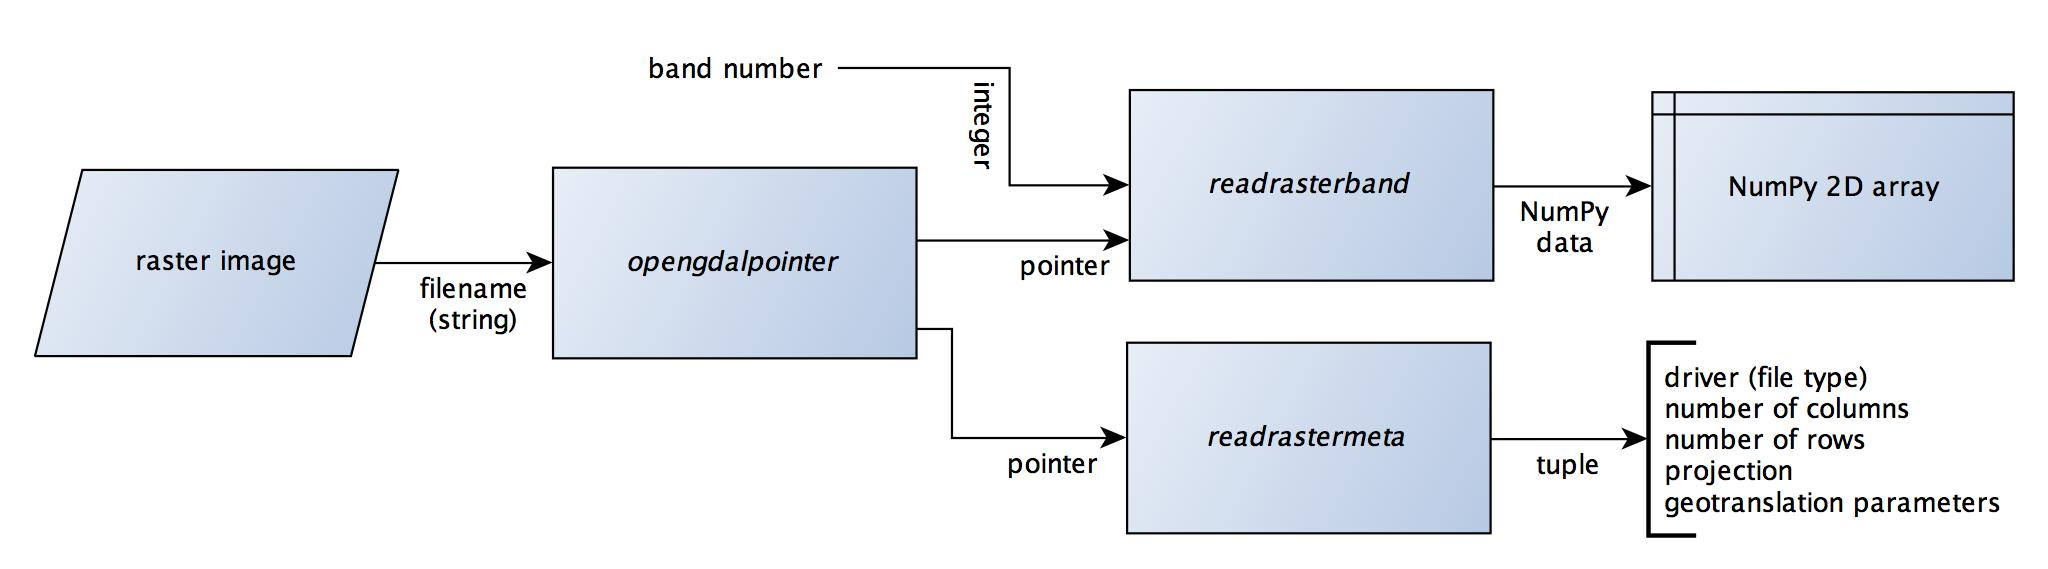
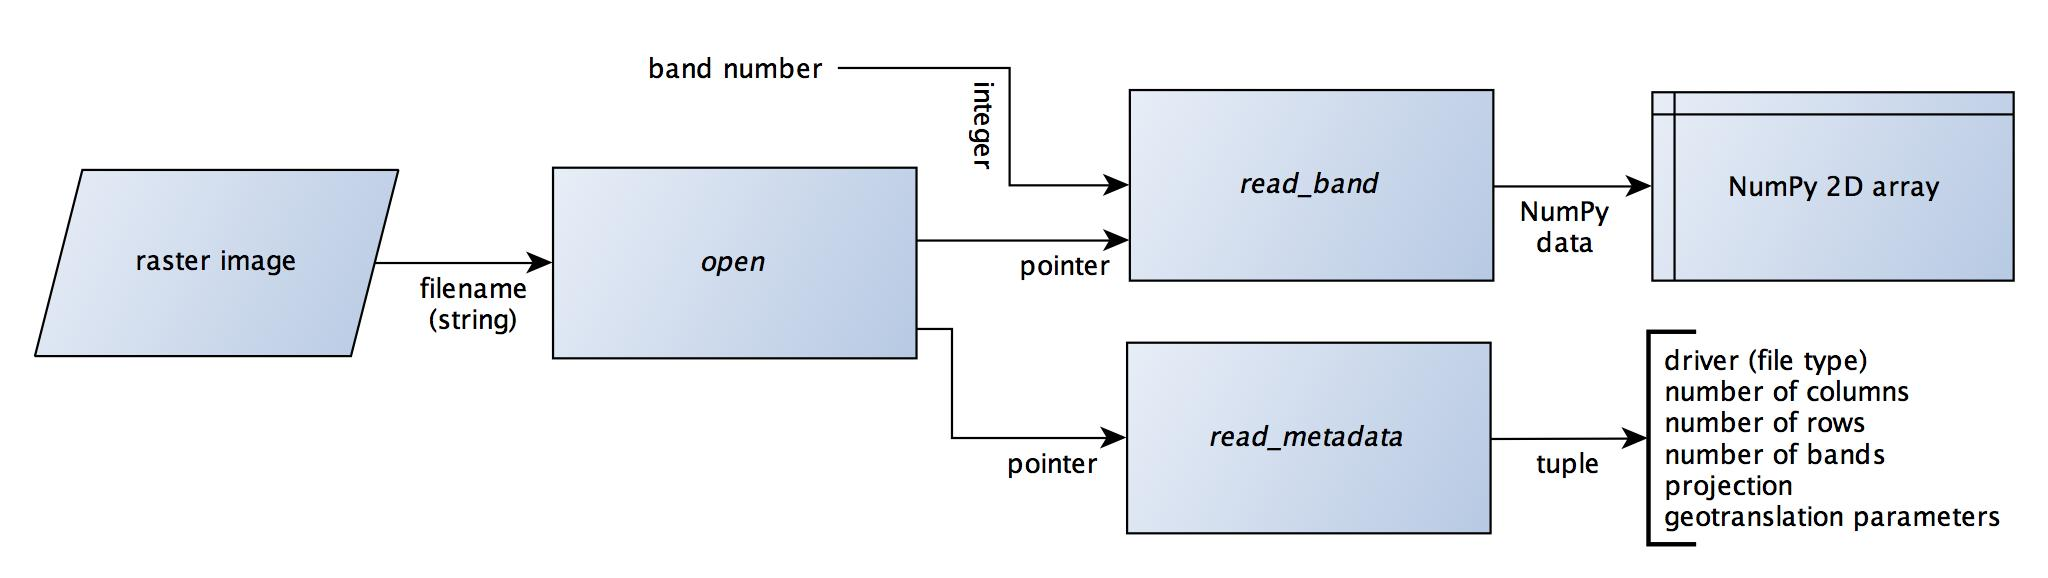
completed first draft of readme

diff --git a/scripts/matplotlib_rasterio_historgram_snippet.py b/scripts/matplotlib_rasterio_historgram_snippet.py
@@ -3,25 +3,24 @@
 import sys, os, string, rasterIO
 import numpy.ma as ma
 import matplotlib.pyplot as plt
- 
-# Create a histogram function
+
+# histogram function
 def rasterHistogram(raster_matrix):
     '''Accepts matrix and generates histogram'''
-     
-    # Line above is function docstring
+
     # Flatten 2d-matrix
     flat_raster = ma.compressed(raster_matrix)
-     
+
     # Setup the plot (see matplotlib.sourceforge.net)
     fig = plt.figure(figsize=(8,11))
     ax = fig.add_subplot(1,1,1)
-     
+
     # Plot histogram
     ax.hist(flat_raster, 10, normed=0, histtype='bar',
             align=mid)
     # Show the plot on screen
     plt.show()
-     
+
 # Open a raster using rasterIO
 #...
 # Pass matrix representation of raster to function

diff --git a/pyraster.py b/pyraster.py
@@ -69,7 +69,7 @@ class RasterIO:
         if dataset is not None:
             return dataset
         else:
-            raise IOError
+            raise IOError('Could not open file')
 
     def read_metadata(self, dataset):
         """Accepts GDAL dataset, returns metadata dict
@@ -261,7 +261,7 @@ class RasterIO:
                 else:
                     return int(srs.GetAuthorityCode("GEOGCS"))
         else:
-            raise TypeError
+            raise ValueError('WKT value must not be None')
 
     def band_to_txt(self, band, outfile):
         """Accepts numpy array writes to specified text file on disk."""

diff --git a/README.md b/README.md
@@ -11,7 +11,7 @@ PyRaster provides two elements:
 
   The aim of the module is to provide a high-level API for Python software to process large suites of geospatial rasters, with a particular focus on satellite imagery.
 
-  The RasterIO class uses the Geospatial Data Abstraction Library ([GDAL](http://gdal.org)) to read and write images and their geospatial metadata to and from NumPy arrays.
+  The RasterIO class uses the Geospatial Data Abstraction Library (GDAL)<sup>[1](#1)</sup> to read and write images and their geospatial metadata to and from NumPy arrays.
 
 2. Scripts
 
@@ -19,16 +19,16 @@ PyRaster provides two elements:
 
 ###References
 This software was developed as part of my PhD thesis to batch process large time series of Earth observation data.
-* [PhD Thesis](http://hdl.handle.net/10443/1856) - Holderness, T. 2013
-* [PyRaster presentation](https://tomholderness.files.wordpress.com/2012/12/holderness_asu_pyraster_pres_handout.pdf) to Mars Space Flight Facility in 2010
-* [Raster Processing Suite](http://talltom.github.io/Raster-Processing-Suite/) QGIS plugin.
+* Holderness, T. (2013) <i>Quantifying the spatio-temporal temperature dynamics of Greater London using thermal Earth observation.</i> <sup>[2](#2)</sup>
+* PyRaster presentation to Mars Space Flight Facility in 2010. <sup>[3](#3)</sup>
+* Raster Processing Suite QGIS plugin. <sup>[4](#4)</sup>
 
 ###Documentation
 * RasterIO API documentation in HTML format can be found in the `doc` folder
 * Instructions on using the software are provided below in this `README.md` file
 
 ###Supported Formats
-* Input: Any [GDAL supported format](http://gdal.org/formats_list.html)
+* Input: Any GDAL supported format <sup>[5](#5)</sup>
 * Output: Default is GeoTiffs created with embedded binary header files containing geospatial information
 * Default data-type is 32-bit float
 * RasterIO handles mapping of GDAL (C) data-types to Python
@@ -90,10 +90,10 @@ print type(b1)
 ```
 
 ![Figure 1 - loading raster data](https://raw.githubusercontent.com/talltom/PyRaster/dev/doc/diagrams/rasterIO_processing_flowline_read.jpg)
-Figure 1. Loading Raster Data into a NumPy array using the PyRaster RasterIO module ([Holderness, T. 2013](http://hdl.handle.net/10443/1856)).
+Figure 1. Loading Raster Data into a NumPy array using the PyRaster RasterIO module (Adapted from Holderness, T. 2013 <sup>[2](#2)</sup>).
 
 ####1.4 Metadata Handling
-The `read_metadata()` function complements `read_band()`,  to read the geospatial raster meta-data from a raster file. The `read_metadata()` function accepts a GDAL raster dataset (i.e. from `open_raster`) and returns a dictionary containing the GDAL driver, number of rows, number of columns, number of bands, projection info (well known text), and geotranslation metadata.
+The `read_metadata()` method complements `read_band()`,  to read the geospatial raster meta-data from a raster file. The `read_metadata()` function accepts a GDAL raster dataset (i.e. from `open_raster`) and returns a dictionary containing the GDAL driver, number of rows, number of columns, number of bands, projection info (well known text), and geotranslation metadata.
 
 Using `read_metadata()` with `read_band()` means that when a raster is loaded into a NumPy array the geospatial information can be retained through the Python processing flow-line, and written with output data if required.
 
@@ -106,25 +106,47 @@ GTIFF
 ```
 
 ####1.5 Masked Arrays & No Data Values
+PyRaster uses NumPy masked arrays <sup>[6](#6)</sup> to handle no data values in raster images. When masking is in place, masked values are not included in array calculations.
 
-PyRaster uses [NumPy masked arrays](http://docs.scipy.org/doc/numpy/reference/maskedarray.html) to handle no data values in raster images. When masking is in place, masked values are not included in array calculations.
-
-No Data Values (`NoDataValue`) are derived from individual band metadata using the `band.GetNoDataValue()` [GDAL function](http://www.gdal.org/classGDALRasterBand.html#adcca51d230b5ac848c43f1896293fb50).
+No Data Values (`NoDataValue`) are derived from individual band metadata using the `band.GetNoDataValue()` GDAL function <sup>[7](#7)</sup>.
 If the input raster has no recognisable `NoDataValue` readable by GDAL then the input `NoDataValue` is assumed to be 9999. This can be changed by manually specifying an input NoDataVal when calling read - rasterbands()
 
 In accordance with GDAL the output data NoDataValue is 9999 or 9999.0 or can be manually set by when write_bands(). Note that when using unsigned integer data types the default output NoDataValue will be 0.
 
+####1.6 Writing Data
+The `write_bands()` method is used to write NumPy arrays to geosaptial raster files. An output file is specified, along with a GDAL supported file type. Geospatial metadata parameters are the same as those generated by `read_metadata()` and so can be copied from an origional input file. The methods requires the following parameters:
+- filename
+- GDAL file type (e.g. 'GTIFF')
+- xsize - number of array columns
+- ysize - number of array rows
+- geotranslation metadata
+- EPGS project code
+- number of bands
+- NumPy array(s)
 
-###2 Raster Processing with NumPy
-####Simple Example
+```python
+rio.write_bands('newfile.tif', 'GTIFF', metadata['xsize'], metadata['ysize'], metadata['geotranslation'], rio.wkt_to_epsg(metadata['projection']),1, array)
+```
+Note that an EPSG value can be generated from the project WKT generated by read_metadata, using the `wkt_to_epsg()` method.
 
-###3 Writing Data
+###2 Raster Processing
+NumPy Elementwise Array Operations <sup>[8](#8)</sup>
+```python
+band_celsius = band_kelvin - 273.15  #convert all cell values from Kelvin to Celsius temperatures
+```
+```python
+band_difference = band1 - band2 #compute elementwise difference for all cell values between two bands
+```
+NumPy Universal Functions <sup>[9](#9)</sup>
+```python
+print band.mean(), band.min(), band.max  #compute mean, min and max values from all cells in band
+```
 
-###4 Scripts & Examples
-#### batch-ndvi.py
+###3 Scripts
+#### 3.1 batch-ndvi.py
 This script calculates the Normalized Difference Vegetation Index (NDVI) using the first two bands of each image in the working directory.
 
-NDVI is defined as a ratio between two bands, where band 1 is in the red visible wavelength and band 2 is near-infrared:
+NDVI is defined as a ratio between two bands, where band 1 is in the red visible wavelength and band 2 is near-infrared. <sup>[10](#10)</sup>
 
 ```python
 import pyraster
@@ -136,17 +158,16 @@ b1 = rio.readrasterband(dataset, 1)
 b2 = rio.readrasterband(dataset, 2)
 ndvi = (b2-b1)/(b2+b1)
 ```
-(see https://en.wikipedia.org/wiki/Normalized_Difference_Vegetation_Index for further information on NDVI)
 
-to run the scrip, do:
+To run the script, do:
 ```bash
 [pyraster]$ python scripts/batch-ndvi.py
 ```
 
 batch-ndvi generates a new raster representing the NDVI values calculated. The suffix "-ndvi" is added to the output filename to distinguish it from the original file. The script is a simple example of iterating raster computation over a series of data.
 
-####vectorize.py
-NumPy contains a number of methods to optimize array routines (see ref). This script uses the vectorize process to create a Boolean output raster based on a threshold function.
+####3.2 vectorize.py
+Vectorized functions can improve NumPy performance. <sup>[11](#11)</sup> This script uses the vectorize process to create a Boolean output raster based on a threshold function.
 
 ```python
 def value_test(a, b):
@@ -156,38 +177,103 @@ def value_test(a, b):
             return 0
 ```
 Once the function is vectorized, and a raster array can be passed in as an argument
-```
+```python
 value_test_vect = numpy.vectorize(value_test)
 new_array = value_test_vect(band1, some_value)
 ```
 
-###multiprocess.py
+###3.3 multiprocess.py
+The Python Multiprocessing module can be used to parallelize processing of multiple scenes. <sup>[12](#12)</sup> The multiprocess script demonstrates using two threads to simultaneously calculate NDVI for a list of raster images. The list of images to process is split into two, and each assigned to a separate processing thread.
 
-###historgram.py
+```python
+#Create two processes (add more depending on processor availability)
+p1 = Process(target=processRun, args=(q, flist[:half_length]))
+p2 = Process(target=processRun, args=(q, flist[half_length:]))
+```
 
-###plot.py
+###3.4 historgram.py
+This script demonstrates creation of a band histogram plotted using the Matplotlib library. <sup>[13](#13)</sup>
+The array is first flattened, and then passed to the Matploblib `hist` method.
+
+```python
+# Flatten 2d-matrix
+flat_raster = ma.compressed(raster_matrix)
+# Plot histogram
+ax.hist(flat_raster, 10, normed=0, histtype='bar',
+        align=mid)
+```
+
+###3.5 plot.py
+The Matplotlib library can also be used to plot arrays as images using the `imshow` method. <sup>[14](#14)</sup>
+
 ```python
 import matplotlib.pyplt as plt
 from matplotlib import cmap
 import pyraster
+
+#Read the data
 rio = pyraster.Raster()
 dataset = rio.open('file.tif')
 band = rio.read_band(dataset,1)
+
+#Plot on screen using Matploblib.
 plt.imshow(band, cmap=cm.Greys_r, vmin=19, vmax=50)
 plt.show()
 ```
+![Figure 2 - landsat plot](https://raw.githubusercontent.com/talltom/PyRaster/dev/doc/diagrams/landsat_7_ETM+.png)
+Figure 2. Landsat 7 ETM+ Pancromatic Scene of London Plotted using Matplotlib.
 
+##Development
+###Unit Tests
 
-###Development
-* Testing
-
-  The `test` folder contains simple unit testing for RasterIO:
+  The `test` folder contains simple unit testing for RasterIO using the unittest and mock modules:
 
   ```bash
   [pyraster]$ python test/rasterio_test.py
   ```
 Unit tests are run by Travis-CI when code is pushed to github.
 
-* Style
+Coverage of tests can be generated by running:
+```bash
+[pyraster]$ coverage run --pylib --source=pyraster test/rasterio_test.py
+```
+###Release
+- Update the CHANGELOG.md file with the newly released version, date, and a high-level overview of changes. Commit the change.
+- Create a tag in git from the current head of master. The tag version should be the same as the version specified in the pyraster.py file - this is the release version.
+- Update the version in the pyraster.py file and commit the change.
+- Further development is now on the updated version number until the release process begins again.
 
-  strive for PEP 8, functions contain docstrings, documentation built with pdoc
+###Documentation
+API documentation for pyraster is created using pdoc, generate HTML files in the `doc` directory by doing
+```bash
+pdoc --html --overwrite pyraster
+```
+##Notes
+<a name="1"></a>[1] Geospatial Data Abstraction Library http://gdal.org
+
+<a name="2"></a>[2] Holderness, T. 2013 PhD Thesis http://hdl.handle.net/10443/1856
+
+<a name="3"></a>[3] Holderness, T. 2010 PyRaster Presentation https://tomholderness.files.wordpress.com/2012/12/holderness_asu_pyraster_pres_handout.pdf
+
+<a name="4"></a>[4] Raster Processing Suite QGIS Plugin http://talltom.github.io/Raster-Processing-Suite/
+
+<a name="5"></a>[5] GDAL Format List http://www.gdal.org/formats_list.html
+
+<a name="6"></a>[6] NumPy Arrays
+http://docs.scipy.org/doc/numpy/reference/maskedarray.html
+
+<a name="7"></a>[7] GDAL No Data Values (http://www.gdal.org/classGDALRasterBand.html#adcca51d230b5ac848c43f1896293fb50)
+
+<a name="8"></a>[8] NumPy Elementwise Array Operations http://wiki.scipy.org/Tentative_NumPy_Tutorial#head-4c1d53fe504adc97baf27b65513b4b97586a4fc5
+
+<a name="9"></a>[9] NumPy Universal Functions http://wiki.scipy.org/Tentative_NumPy_Tutorial#head-053463ac1c1df8d47f8723f470b62c4bd0d11f07
+
+<a name="10"></a>[10] Normalised Difference Vegetation Index https://en.wikipedia.org/wiki/Normalized_Difference_Vegetation_Index
+
+<a name="11"></a>[11] NumPy vectorize  http://docs.scipy.org/doc/numpy/reference/generated/numpy.vectorize.html
+
+<a name="12"></a>[12] Python Multiprocessing module https://docs.python.org/2/library/multiprocessing.html
+
+<a name="13"></a>[13] Plotting an image histogram with Matplotlib http://matplotlib.org/users/image_tutorial.html#examining-a-specific-data-range
+
+<a name="14"></a>[14] Plotting an image with Matploblib http://matplotlib.org/users/image_tutorial.html#image-tutorial
